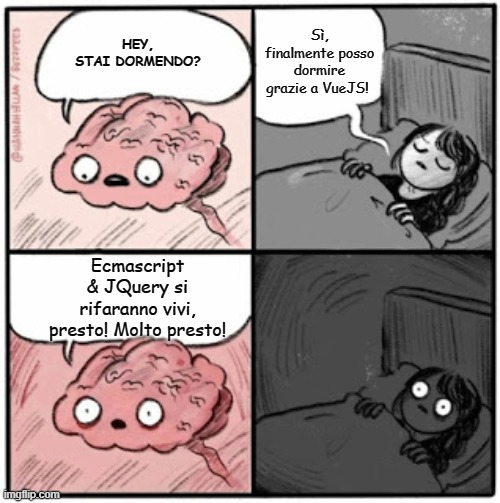
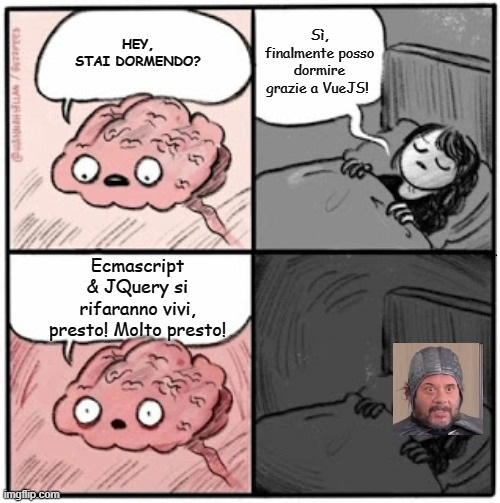
Add h1 and bonus

Changed region(s): [[0.78, 0.6561, 0.99, 0.8648]]

diff --git a/index.html b/index.html
@@ -1,0 +1,22 @@
+<!DOCTYPE html>
+<html lang="en">
+<head>
+    <meta charset="UTF-8">
+    <meta http-equiv="X-UA-Compatible" content="IE=edge">
+    <meta name="viewport" content="width=device-width, initial-scale=1.0">
+    <title>Document</title>
+    <link rel="stylesheet" href="main.css">
+    <!--Vue-->
+    <script src="https://cdn.jsdelivr.net/npm/vue@2.6.12/dist/vue.js"></script>
+</head>
+<body>
+    <div id="app">
+        <h1> {{ title }} </h1>
+        <img :src="image" :alt="title">
+    </div>
+
+
+    <!--JS-->
+    <script src="js/script.js"></script>
+</body>
+</html>

diff --git a/js/script.js b/js/script.js
@@ -1,0 +1,14 @@
+/**
+ * Stampare a schermo un messaggio all’interno di un h1, utilizzando i data.
+ * Bonus: Aggiungere alla pagina un’immagine, presa anch’essa da un data.
+ */
+
+//console.log('Vue', Vue);
+
+const app = new Vue({
+    el: '#app',
+    data: {
+        title: 'Le comiche avventure di Brain nel corpo di Lillo',
+        image: 'meme.jpg'
+    }
+});

diff --git a/main.css b/main.css
@@ -1,0 +1,10 @@
+* {
+    margin: 0;
+    padding: 0;
+    box-sizing: border-box;
+}
+
+body {
+    font-family: sans-serif;
+}
+
